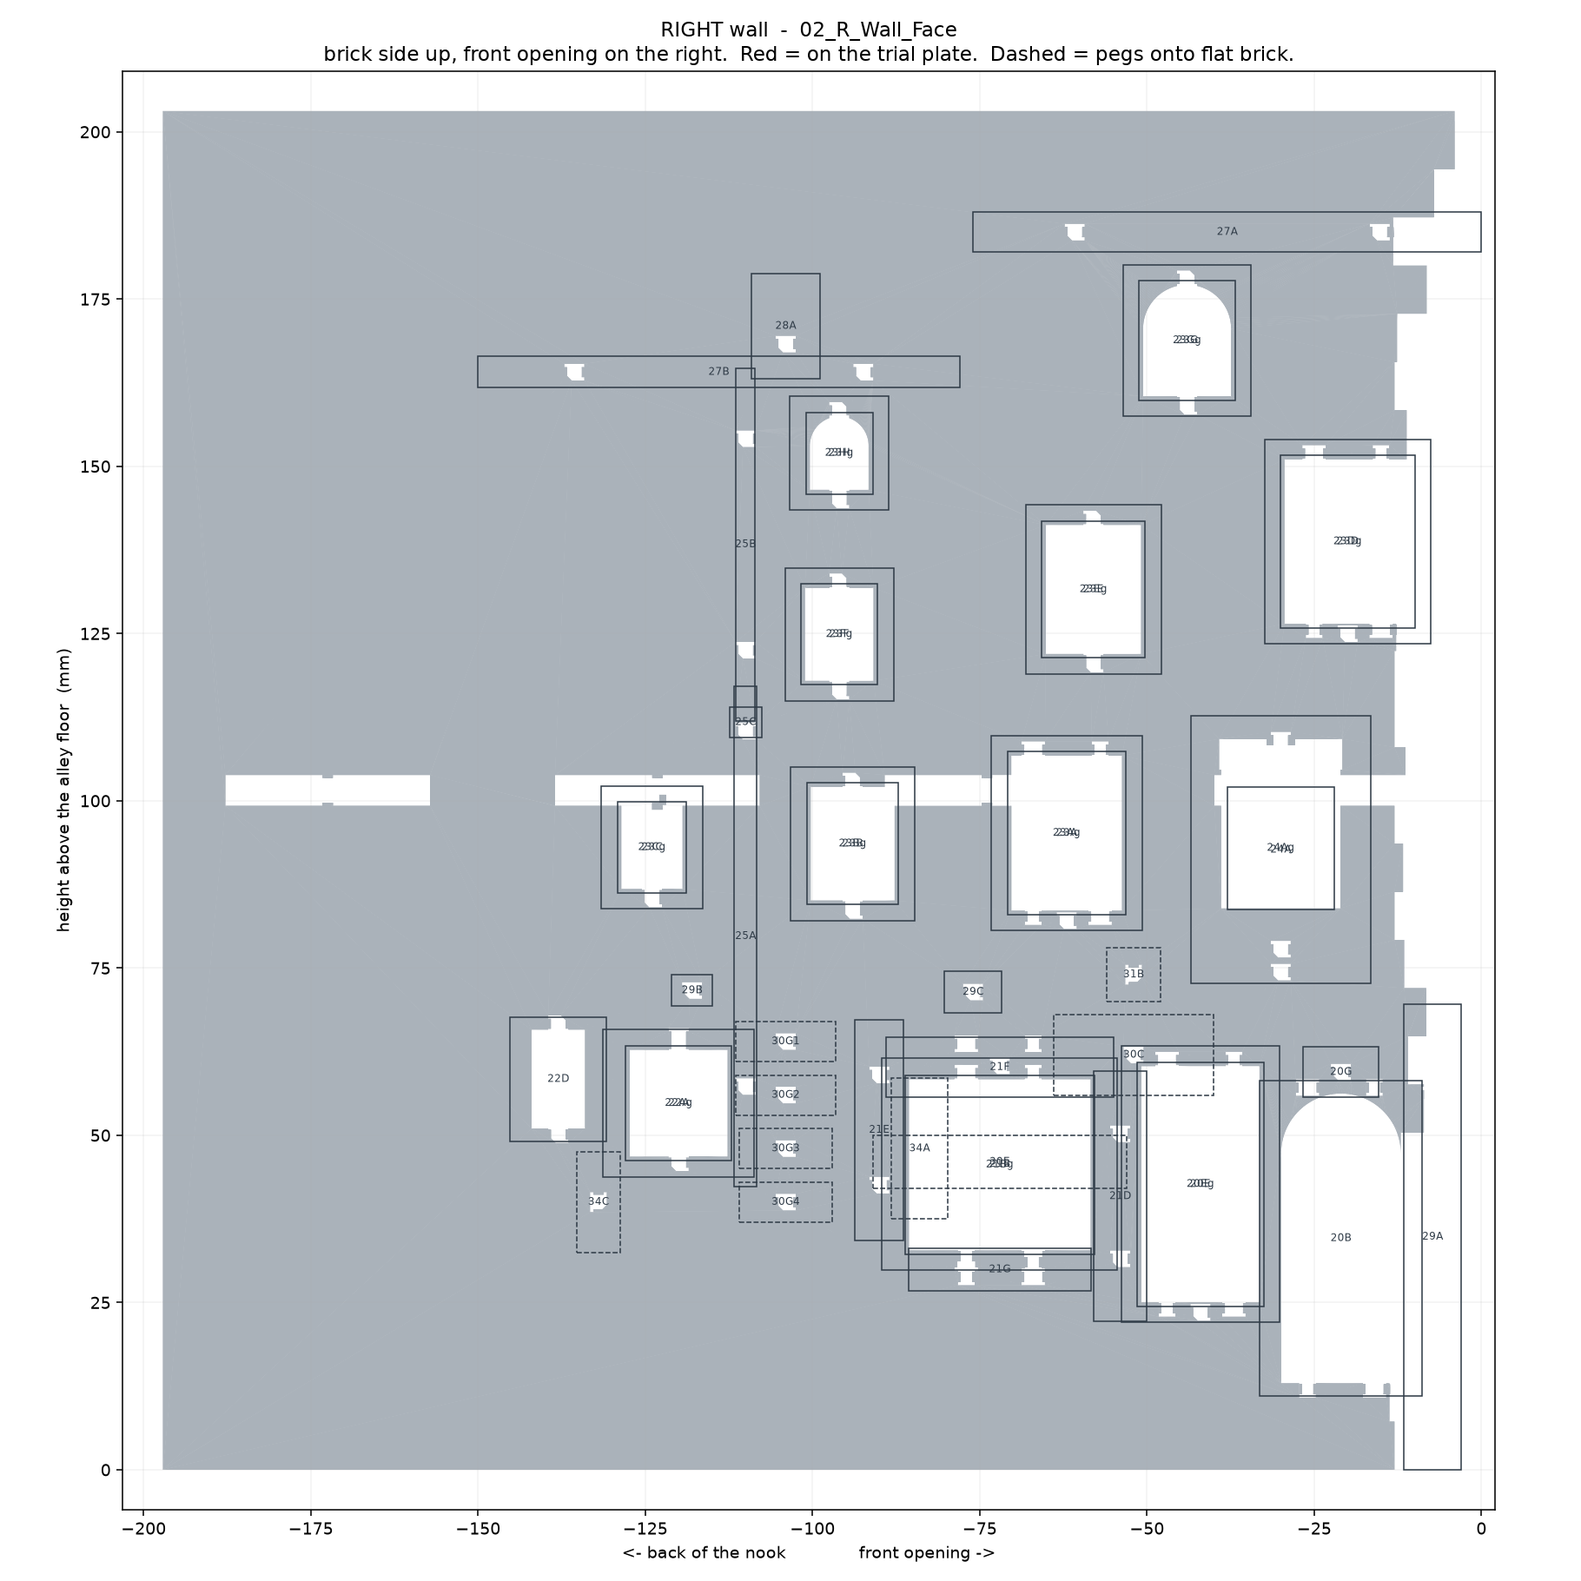
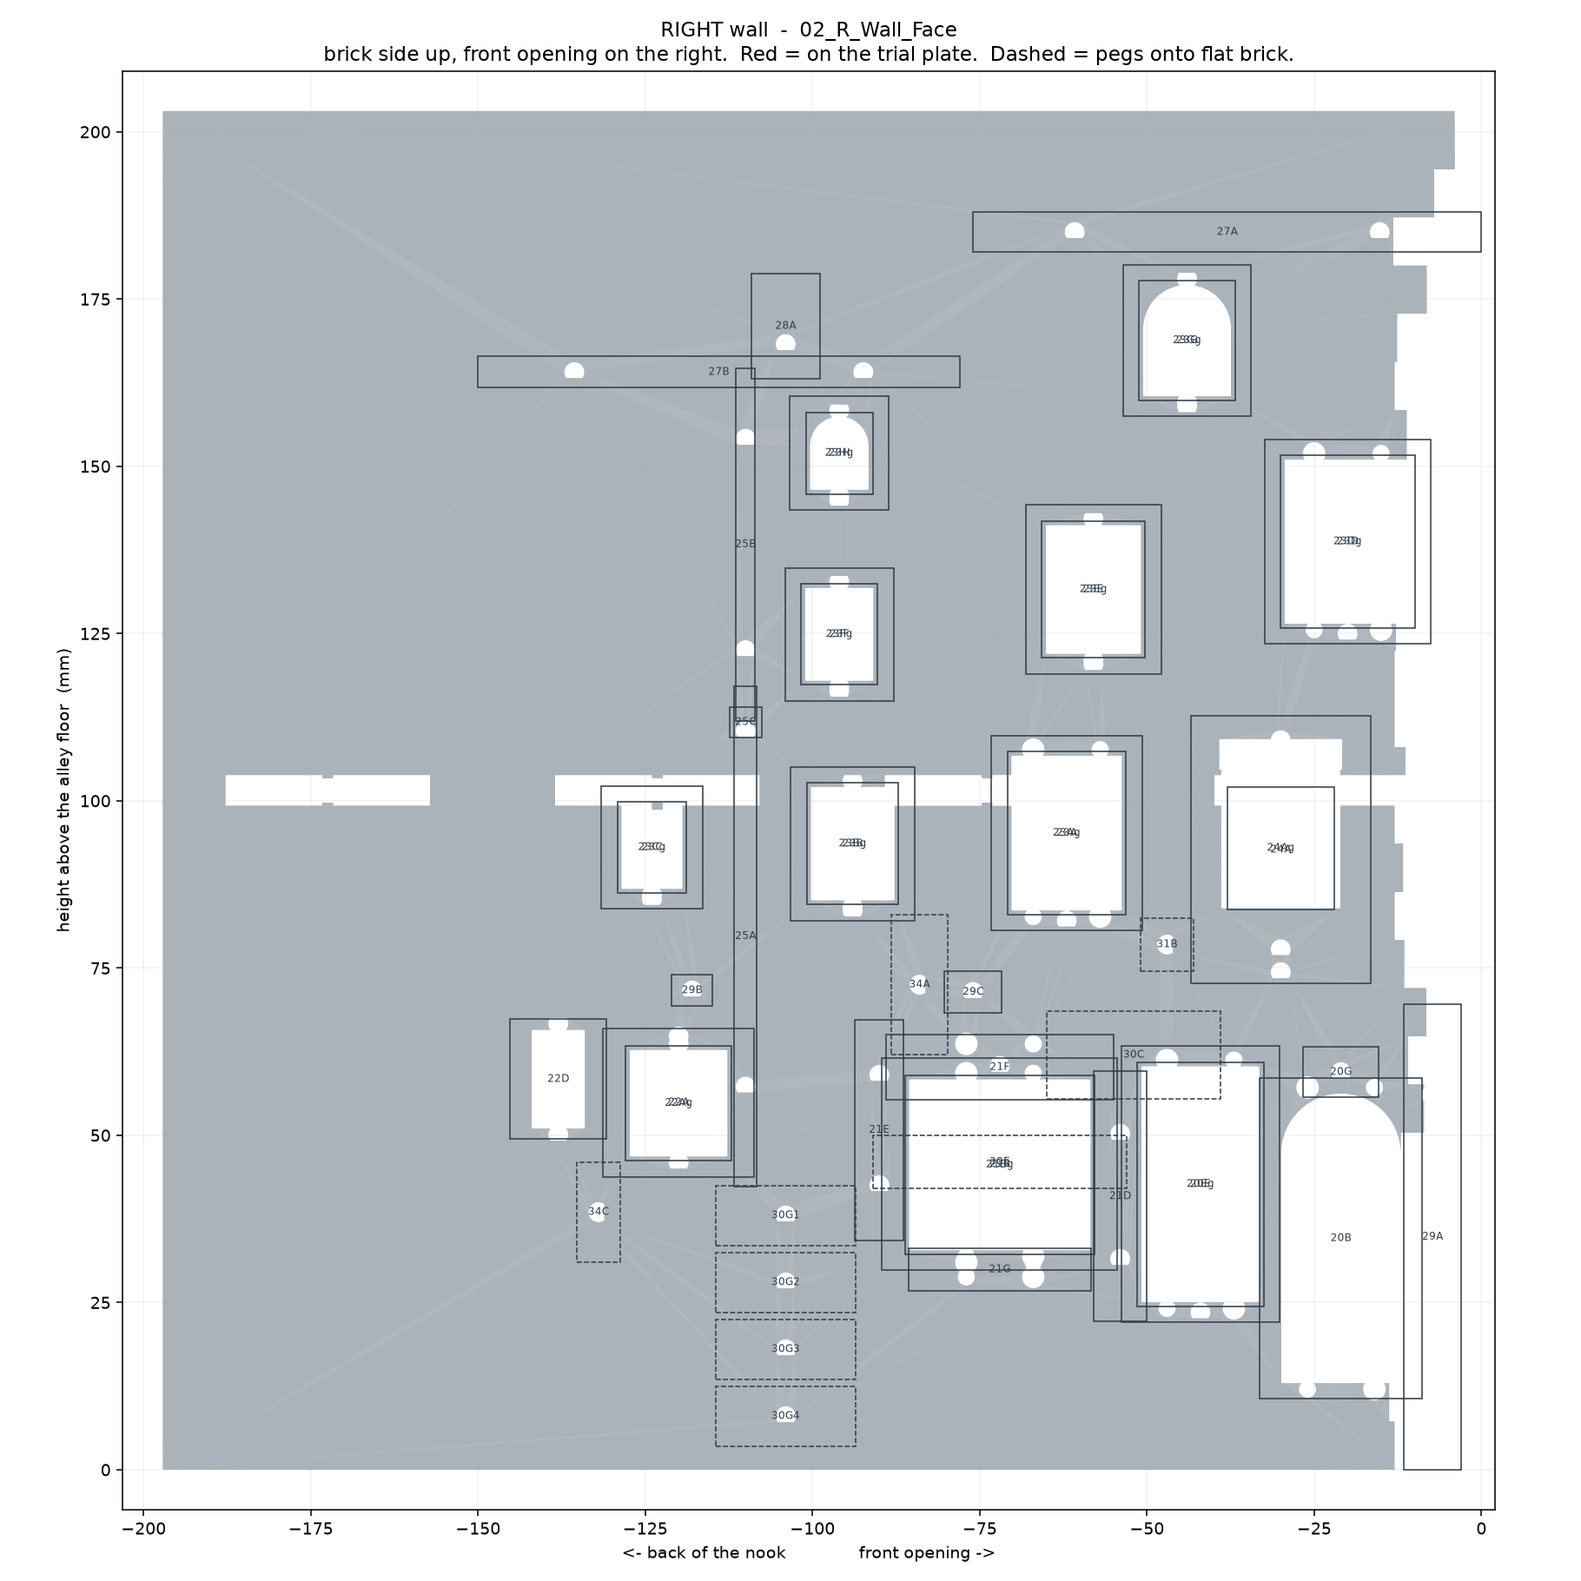
Second pass: hung bodies, not just their sockets
Clearing the sockets was half the job. check_hung_clearance() compares the
BODIES, and it failed on 13 parts on the left wall and 6 on the right -- most
of them where they had always been, not where the first pass moved them. A
lozenge 15 mm wide sits across the drainpipe whatever its socket does.

render_bare_wall.py draws what was actually being guessed at: the wall with
every element's footprint grown by the millimetre a socket needs, so the free
patches are visible. There are fewer than the element table suggests, and the
lower two storeys have almost none -- which is why the answers below move
upward or to the piers.

  31A  (30,76) -> (18,72), reach 15->13, drop 17->9. At its old size the
       bracket's body was 17.4 mm tall and the nearest free patch was 29 mm
       away on the second storey; at 9 it fits the band between the L1
       cornice and the 13A window, over the shopfront where it belongs. 30B
       follows it to u=18.
  31B  (52,74) -> (47,78.5)
  31D  (138,60) -> (138,77)
  30D  (88,66) -> (98,27), and no longer claims a bracket: it is a badge
       fixed flat beside the L2 door, the only bare patch on that shopfront.
       31C keeps its spot and now carries nothing, which is what an old scroll
       bracket with its sign gone looks like.
  30F  (120,58) -> (130,75)
  30G1-4 the lozenge column stays a column: same u, pitch 12 -> 10, dropped
       to z 38/28/18/8 clear of the drainpipe and the R3 shopfront.
[…]

diff --git a/diagon-alley-book-nook/data/facade.py b/diagon-alley-book-nook/data/facade.py
@@ -181,26 +181,30 @@ SIGNS = [
     # shop's trade instead, which is what a real alley sign does anyway.
     dict(id="30A", kind="banner",  side="R", u=66,  z=96, w=14, h=64, lit=1,
          text="DIAGON", name="Sign_Vertical_Banner"),
-    dict(id="30B", kind="swing",   side="L", u=30,  z=64, w=34, h=15,
+    dict(id="30B", kind="swing",   side="L", u=18,  z=62, w=34, h=15,
          text="OLLIVANDERS", name="Sign_Swing_Ollivanders", bracket="31A"),
     dict(id="30C", kind="swing",   side="R", u=52,  z=62, w=26, h=13,
          text="EEYLOPS", name="Sign_Swing_Eeylops", bracket="31B"),
-    dict(id="30D", kind="shield",  side="L", u=90,  z=77, w=23, h=21,
-         text="POTIONS", name="Sign_Shield_Apothecary", bracket="31C"),
+    # beside the L2 door at eye height: the only patch of the Apothecary's wall not
+    # already carrying the bay, the awning, the fascia or the oriel above it. It is a
+    # badge fixed flat to the wall, so it has no bracket -- 31C carries nothing now,
+    # which is what an old scroll bracket with its sign long gone looks like.
+    dict(id="30D", kind="shield",  side="L", u=98,  z=27, w=23, h=21,
+         text="POTIONS", name="Sign_Shield_Apothecary"),
     # fasciaplate: pinned to the fascia BOARD it sits on (21F), so its u and z match
     # that row's and its width stays inside the board's.
     dict(id="30E", kind="fasciaplate", side="R", u=72, z=46, w=38, h=8,
          text="QUIDDITCH", name="Sign_Fascia_Quidditch"),
-    dict(id="30F", kind="arrow",   side="L", u=120, z=72, w=46, h=11,
+    dict(id="30F", kind="arrow",   side="L", u=130, z=75, w=46, h=11,
          text="GRINGOTTS", name="Sign_Directional"),
     # the lozenge column is a shop directory: four more of the alley's trades
-    dict(id="30G1", kind="lozenge", side="R", u=104, z=64, w=21, h=9,
+    dict(id="30G1", kind="lozenge", side="R", u=104, z=38, w=21, h=9,
          text="PETS", name="Sign_Lozenge_Menagerie"),
-    dict(id="30G2", kind="lozenge", side="R", u=104, z=52, w=21, h=9,
+    dict(id="30G2", kind="lozenge", side="R", u=104, z=28, w=21, h=9,
          text="JOKE", name="Sign_Lozenge_Wheezes"),
-    dict(id="30G3", kind="lozenge", side="R", u=104, z=40, w=21, h=9,
+    dict(id="30G3", kind="lozenge", side="R", u=104, z=18, w=21, h=9,
          text="ICES", name="Sign_Lozenge_Fortescue"),
-    dict(id="30G4", kind="lozenge", side="R", u=104, z=28, w=21, h=9,
+    dict(id="30G4", kind="lozenge", side="R", u=104, z=8,  w=21, h=9,
          text="ROBES", name="Sign_Lozenge_Malkin"),
     dict(id="30H", kind="swing",   side="L", u=138, z=52, w=20, h=10,
          text="INK", name="Sign_Swing_Scribbulus", bracket="31D"),
@@ -224,20 +228,24 @@ SIGNS = [
 BRACKETS = [
     # 30B's bracket. 2.5 mm along the wall, because at u=30 the socket was 1.5 mm
     # inside the 13A window frame above it -- the hole that showed up on the coupon tile.
-    dict(id="31A", side="L", u=33,  z=76, reach=15, drop=17, name="Bracket_Scroll_A"),
-    dict(id="31B", side="R", u=52,  z=74, reach=14, drop=16, name="Bracket_Scroll_B"),
+    # reach and drop cut from 15/17: at 17 the bracket's body was 17.4 mm tall and
+    # there is no 17 mm band of bare wall anywhere near L1 -- the nearest free spot was
+    # 29 mm away on the second storey. At 9 it fits between the shopfront cornice and
+    # the 13A window, which is where a hanging sign belongs.
+    dict(id="31A", side="L", u=18,  z=72, reach=13, drop=9, name="Bracket_Scroll_A"),
+    dict(id="31B", side="R", u=47,  z=78.5, reach=14, drop=16, name="Bracket_Scroll_B"),
     # 30D's bracket, lifted with it to clear the L2 awning and the oriel above
     dict(id="31C", side="L", u=90,  z=87, reach=12, drop=14, name="Bracket_Scroll_C"),
-    dict(id="31D", side="L", u=138, z=73, reach=8,  drop=10, name="Bracket_Scroll_D"),
+    dict(id="31D", side="L", u=138, z=77, reach=8,  drop=10, name="Bracket_Scroll_D"),
 ]
 
 LANTERNS = [
     # Both of the big lanterns hung on shopfront: 33A's socket was under the bow window
     # AND the door, 34A's under the R2 shop window. They hang above the fascia now,
     # which is where a street lantern goes anyway.
-    dict(id="33A", side="L", u=40,  z=76, h=26, w=10, lit=1, name="Lantern_Large"),
-    dict(id="34A", side="R", u=84,  z=71, h=21, w=8.5, lit=1, name="Lantern_Small"),
-    dict(id="34C", side="R", u=132, z=40, h=15, w=6.5, lit=1, name="Lantern_Rear_Tiny"),
+    dict(id="33A", side="L", u=43,  z=72, h=26, w=10, lit=1, name="Lantern_Large"),
+    dict(id="34A", side="R", u=84,  z=72.5, h=21, w=8.5, lit=1, name="Lantern_Small"),
+    dict(id="34C", side="R", u=132, z=38.5, h=15, w=6.5, lit=1, name="Lantern_Rear_Tiny"),
 ]
 
 # `foot` is the footprint (w, d) of a free-standing prop, used to cut its locating
@@ -258,9 +266,9 @@ PROPS = [
     # down 6 mm: the board's socket was under the L2 bay. The poster layer glues
     # ONTO the board and has no wall socket of its own -- it used to share the
     # board's, which is two pegs in one hole.
-    dict(id="38A", kind="notice", side="L", u=68,  z=24, name="Notice_Board"),
-    dict(id="38B", kind="posters", side="L", u=68, z=24, name="Poster_Layer"),
+    dict(id="38A", kind="notice", side="L", u=69,  z=16, name="Notice_Board"),
+    dict(id="38B", kind="posters", side="L", u=69, z=16, name="Poster_Layer"),
     dict(id="39A", kind="kerb", side="L", u=80,  name="Kerb_Step", foot=(18.0, 6.0)),
     dict(id="39B", kind="hatch", side="R", u=48,  name="Cellar_Hatch", foot=(14.0, 11.0)),
-    dict(id="39C", kind="scraper", side="L", u=46, z=2, name="Boot_Scraper"),
+    dict(id="39C", kind="scraper", side="L", u=46, z=4, name="Boot_Scraper"),
 ]

diff --git a/diagon-alley-book-nook/render_bare_wall.py b/diagon-alley-book-nook/render_bare_wall.py
@@ -1,0 +1,78 @@
+#!/usr/bin/env python3
+"""Where is there any bare wall left to hang something on?
+
+    python3 render_bare_wall.py   ->  docs/img/bare_wall_L.png, _R.png
+
+Every sign, bracket, lantern and wall-hung prop needs a patch of wall that no shopfront,
+window, pipe or cornice already covers -- for its socket AND for its own body. Guessing
+at that from the element table is how eleven of the left wall's twelve hung mounts ended
+up underneath the part next door.
+
+White is free. Grey is taken, by the part named on it. The crosses are where the hung
+parts sit now; a cross on grey is a mount with nothing to mount to.
+"""
+import os
+
+import numpy as np
+import matplotlib
+matplotlib.use("Agg")
+import matplotlib.pyplot as plt
+from matplotlib.patches import Rectangle
+
+from parts import walls as W
+from parts import kit as K
+from parts.decor import to_wall
+
+HERE = os.path.dirname(os.path.abspath(__file__))
+OUT = os.path.join(HERE, "docs", "img")
+MARGIN = 1.0
+
+
+def main():
+    os.makedirs(OUT, exist_ok=True)
+    for side in ("L", "R"):
+        facade = [(p["id"], p["placed"].val().BoundingBox())
+                  for p in W.collect(side)[0]]
+        hung = []
+        want = {r["id"] for _k, r, _ in K.wall_mount_rows(side)}
+        for it in K.signs() + K.brackets() + K.lanterns() + K.props():
+            if it.get("side") != side or it["id"] not in want:
+                continue
+            u, z = it["u"], it.get("z", 0) or 0
+            b = to_wall(it["solid"], u, z).val().BoundingBox()
+            hung.append((it["id"], u, z, b))
+
+        fig, ax = plt.subplots(figsize=(15, 9), facecolor="white")
+        ax.add_patch(Rectangle((0, 0), W.WALL_LEN, W.WALL_H, facecolor="white",
+                               edgecolor="#333", lw=1.2, zorder=0))
+        for pid, bb in sorted(facade, key=lambda t: -(t[1].ylen * t[1].zlen)):
+            ax.add_patch(Rectangle((bb.ymin - MARGIN, bb.zmin - MARGIN),
+                                   bb.ylen + 2 * MARGIN, bb.zlen + 2 * MARGIN,
+                                   facecolor="#b9c0c6", edgecolor="#8a949c",
+                                   lw=0.5, alpha=0.85, zorder=1))
+            if bb.ylen * bb.zlen > 250:
+                ax.text((bb.ymin + bb.ymax) / 2, (bb.zmin + bb.zmax) / 2, pid,
+                        ha="center", va="center", fontsize=7, color="#3d4750", zorder=2)
+        for hid, u, z, b in hung:
+            ax.add_patch(Rectangle((b.ymin, b.zmin), b.ylen, b.zlen, fill=False,
+                                   edgecolor="#b23b3b", lw=1.4, zorder=3))
+            ax.plot([u], [z], marker="+", ms=11, mew=2.0, color="#b23b3b", zorder=4)
+            ax.text(u, b.zmax + 1.5, hid, ha="center", va="bottom", fontsize=8,
+                    color="#b23b3b", fontweight="bold", zorder=4)
+
+        ax.set_xlim(-6, W.WALL_LEN + 6)
+        ax.set_ylim(-6, W.WALL_H + 10)
+        ax.set_aspect("equal")
+        ax.set_axis_off()
+        ax.set_title(f"{side} wall — white is bare wall (grey already carries a part, "
+                     f"grown by the {MARGIN} mm a socket needs). "
+                     "Red is what hangs on it.", fontsize=11, color="#1d2429")
+        fig.tight_layout()
+        out = os.path.join(OUT, f"bare_wall_{side}.png")
+        fig.savefig(out, dpi=140, bbox_inches="tight", facecolor="white")
+        plt.close(fig)
+        print("  ->", out)
+
+
+if __name__ == "__main__":
+    main()

diff --git a/diagon-alley-book-nook/docs/06_WHERE_IT_GOES.md b/diagon-alley-book-nook/docs/06_WHERE_IT_GOES.md
@@ -34,42 +34,42 @@ numbers the drawings are laid out on.
 | `13Cg` | L_L_Window_C_Glazing | 101.1 – 114.9 | 85.8 – 103.8 | 0.8 mm |
 | `13D` | L_L_Window_D_Frame | 126.3 – 141.7 | 84.8 – 103.4 | 2.8 mm |
 | `13C` | L_L_Window_C_Frame | 98.7 – 117.3 | 83.4 – 106.2 | 2.8 mm |
+| `31C` | Bracket_Scroll_C | 86.0 – 94.0 | 83.0 – 91.0 | pegs into a socket here |
 | `13Bg` | L_L_Window_B_Glazing | 36.7 – 55.3 | 81.5 – 107.1 | 0.8 mm |
 | `13B` | L_L_Window_B_Frame | 34.3 – 57.7 | 79.1 – 109.5 | 2.8 mm |
 | `13Ag` | L_L_Window_A_Glazing | 4.9 – 27.1 | 78.8 – 108.7 | 0.8 mm |
 | `12B` | L_L_Oriel_Body | 65.0 – 87.0 | 78.6 – 109.6 | 7.9 mm |
 | `13A` | L_L_Window_A_Frame | 2.5 – 29.5 | 76.4 – 111.1 | 2.8 mm |
-| `31C` | Bracket_Scroll_C | 84.0 – 92.0 | 74.0 – 82.0 | pegs into a socket here |
-| `31A` | Bracket_Scroll_A | 26.0 – 34.0 | 72.0 – 80.0 | pegs into a socket here |
+| `31D` | Bracket_Scroll_D | 134.0 – 142.0 | 73.0 – 81.0 | pegs into a socket here |
 | `19B` | L_L_Keystone | 106.5 – 113.5 | 69.9 – 75.5 | 2.2 mm |
-| `11J` | L_L2_Awning | 62.1 – 85.9 | 68.2 – 77.1 | 6.3 mm |
-| `11K` | L_L2_Fascia | 72.1 – 99.9 | 64.3 – 72.9 | 3.8 mm |
+| `30F` | Sign_Directional | 107.0 – 153.0 | 69.5 – 80.5 | pegs into a socket here |
+| `11J` | L_L2_Awning | 62.1 – 85.9 | 68.2 – 77.3 | 6.3 mm |
+| `31A` | Bracket_Scroll_A | 14.0 – 22.0 | 68.0 – 76.0 | pegs into a socket here |
 | `19C` | L_L_Wall_Plaque | 24.5 – 35.5 | 64.0 – 72.2 | 2.9 mm |
+| `11K` | L_L2_Fascia | 70.6 – 101.4 | 63.9 – 73.3 | 3.8 mm |
+| `33A` | Lantern_Large | 38.0 – 48.0 | 59.0 – 85.0 | pegs into a socket here |
 | `10D` | L_L1_Cornice | -2.9 – 42.9 | 57.8 – 60.8 | 2.0 mm |
-| `30B` | Sign_Swing_A | 17.0 – 43.0 | 57.5 – 70.5 | pegs into a socket here |
-| `30D` | Sign_Shield_A | 79.5 – 96.5 | 56.5 – 75.5 | pegs into a socket here |
-| `31D` | Bracket_Scroll_D | 134.0 – 142.0 | 56.0 – 64.0 | pegs into a socket here |
-| `30F` | Sign_Directional | 109.0 – 131.0 | 54.5 – 61.5 | pegs into a socket here |
-| `30J` | Sign_Fascia_L2 | 70.0 – 102.0 | 50.5 – 57.5 | pegs into a socket here |
-| `12G` | L_L3_Door | 134.6 – 149.4 | 50.4 – 69.9 | 2.2 mm |
-| `30H` | Sign_Small_Rear_A | 130.0 – 146.0 | 48.0 – 56.0 | pegs into a socket here |
+| `30B` | Sign_Swing_Ollivanders | 1.0 – 35.0 | 54.5 – 69.5 | pegs into a socket here |
+| `12G` | L_L3_Door | 134.6 – 149.4 | 50.7 – 69.6 | 2.2 mm |
+| `30J` | Sign_Fascia_Apothecary | 69.0 – 103.0 | 50.0 – 58.0 | pegs into a socket here |
 | `12Ag` | L_L3_Shop_Window_Glazing | 115.5 – 132.5 | 47.5 – 65.7 | 0.8 mm |
-| `12A` | L_L3_Shop_Window_Frame | 112.1 – 135.9 | 45.1 – 68.1 | 2.8 mm |
+| `30H` | Sign_Swing_Scribbulus | 128.0 – 148.0 | 47.0 – 57.0 | pegs into a socket here |
+| `12A` | L_L3_Shop_Window_Frame | 112.1 – 135.9 | 45.1 – 68.3 | 2.8 mm |
 | `12D` | L_L3_Stallriser | 116.1 – 131.9 | 44.6 – 49.2 | 2.0 mm |
-| `33A` | Lantern_Large | 29.0 – 39.0 | 39.0 – 65.0 | pegs into a socket here |
 | `11Ag` | L_L2_Bay_Window_Glazing | 66.0 – 82.0 | 38.4 – 57.0 | 0.8 mm |
-| `11F` | L_L2_Door | 88.3 – 107.7 | 36.4 – 69.9 | 2.2 mm |
+| `11F` | L_L2_Door | 88.3 – 107.7 | 36.7 – 69.9 | 2.2 mm |
 | `11A` | L_L2_Bay_Window_Body | 60.6 – 87.4 | 27.1 – 67.8 | 10.3 mm |
-| `38A` | Notice_Board | 64.0 – 72.0 | 26.0 – 34.0 | pegs into a socket here |
-| `38B` | Poster_Layer | 64.0 – 72.0 | 26.0 – 34.0 | pegs into a socket here |
 | `15A` | L_L_Drainpipe_Lower | 57.9 – 62.1 | 25.8 – 117.4 | 1.8 mm |
 | `10Bg` | L_L1_Bow_Window_Glazing | 6.2 – 33.8 | 20.8 – 44.6 | 0.8 mm |
 | `10Bd` | L_L1_Bow_Window_Diffuser | 5.4 – 34.6 | 19.9 – 45.5 | 0.8 mm |
-| `10G` | L_L1_Door | 31.1 – 56.9 | 18.6 – 65.4 | 2.2 mm |
+| `10G` | L_L1_Door | 31.1 – 56.9 | 18.2 – 65.4 | 2.2 mm |
+| `30D` | Sign_Shield_Apothecary | 86.5 – 109.5 | 16.5 – 37.5 | pegs into a socket here |
 | `10B` | L_L1_Bow_Window | -2.9 – 42.9 | 14.5 – 61.5 | 13.5 mm |
+| `38A` | Notice_Board | 65.0 – 73.0 | 12.0 – 20.0 | pegs into a socket here |
+| `38B` | Poster_Layer | 65.0 – 73.0 | 12.0 – 20.0 | pegs into a socket here |
 | `10E` | L_L1_Stallriser | 1.1 – 38.9 | 8.9 – 18.3 | 2.0 mm |
+| `39C` | Boot_Scraper | 42.0 – 50.0 | 0.0 – 8.0 | pegs into a socket here |
 | `19A` | L_L_Quoin_Front | 3.0 – 11.6 | -0.0 – 69.6 | 2.6 mm |
-| `39C` | Boot_Scraper | 42.0 – 50.0 | -2.0 – 6.0 | pegs into a socket here |
 
 ## Right wall -- `02_R_Wall_Face`
 
@@ -99,31 +99,31 @@ numbers the drawings are laid out on.
 | `23Ag` | R_R_Window_A_Glazing | 53.1 – 70.9 | 83.0 – 107.3 | 0.8 mm |
 | `23B` | R_R_Window_B_Frame | 84.7 – 103.3 | 82.1 – 105.1 | 2.8 mm |
 | `23A` | R_R_Window_A_Frame | 50.7 – 73.3 | 80.6 – 109.7 | 2.8 mm |
+| `31B` | Bracket_Scroll_B | 43.0 – 51.0 | 74.5 – 82.5 | pegs into a socket here |
 | `24A` | R_R_Bay_Window_Body | 16.6 – 43.4 | 72.7 – 112.7 | 11.0 mm |
-| `31B` | Bracket_Scroll_B | 48.0 – 56.0 | 70.0 – 78.0 | pegs into a socket here |
 | `29B` | R_R_Keystone | 115.0 – 121.0 | 69.3 – 74.0 | 2.1 mm |
 | `29C` | R_R_Guild_Badge | 71.7 – 80.3 | 68.2 – 74.6 | 2.5 mm |
-| `30G1` | Sign_Lozenge_1 | 96.5 – 111.5 | 61.0 – 67.0 | pegs into a socket here |
-| `30C` | Sign_Swing_B | 40.0 – 64.0 | 56.0 – 68.0 | pegs into a socket here |
+| `34A` | Lantern_Small | 79.8 – 88.2 | 62.0 – 83.0 | pegs into a socket here |
 | `20G` | R_R1_Door_Keystone | 15.4 – 26.6 | 55.7 – 63.2 | 3.0 mm |
-| `21F` | R_R2_Fascia | 55.0 – 89.0 | 55.7 – 64.7 | 3.8 mm |
-| `30G2` | Sign_Lozenge_2 | 96.5 – 111.5 | 53.0 – 59.0 | pegs into a socket here |
-| `22D` | R_R3_Door | 130.8 – 145.2 | 49.1 – 67.7 | 2.2 mm |
+| `30C` | Sign_Swing_Eeylops | 39.0 – 65.0 | 55.5 – 68.5 | pegs into a socket here |
+| `21F` | R_R2_Fascia | 55.0 – 89.0 | 55.3 – 65.1 | 3.8 mm |
+| `22D` | R_R3_Door | 130.8 – 145.2 | 49.4 – 67.4 | 2.2 mm |
 | `22Ag` | R_R3_Shop_Window_Glazing | 112.1 – 127.9 | 46.2 – 63.4 | 0.8 mm |
-| `30G3` | Sign_Lozenge_3 | 97.0 – 111.0 | 45.0 – 51.0 | pegs into a socket here |
-| `22A` | R_R3_Shop_Window_Frame | 108.7 – 131.3 | 43.8 – 65.8 | 2.8 mm |
+| `22A` | R_R3_Shop_Window_Frame | 108.7 – 131.3 | 43.8 – 66.0 | 2.8 mm |
 | `25A` | R_R_Drainpipe_Lower | 108.3 – 111.7 | 42.3 – 117.2 | 1.4 mm |
-| `30E` | Sign_Fascia_Long | 53.0 – 91.0 | 42.0 – 50.0 | pegs into a socket here |
-| `34A` | Lantern_Small | 79.8 – 88.2 | 37.5 – 58.5 | pegs into a socket here |
-| `30G4` | Sign_Lozenge_4 | 97.0 – 111.0 | 37.0 – 43.0 | pegs into a socket here |
+| `30E` | Sign_Fascia_Quidditch | 53.0 – 91.0 | 42.0 – 50.0 | pegs into a socket here |
 | `21E` | R_R2_Pilaster_Right | 86.4 – 93.6 | 34.3 – 67.3 | 4.1 mm |
-| `34C` | Lantern_Rear_Tiny | 128.8 – 135.2 | 32.5 – 47.5 | pegs into a socket here |
+| `30G1` | Sign_Lozenge_Menagerie | 93.5 – 114.5 | 33.5 – 42.5 | pegs into a socket here |
 | `21Bg` | R_R2_Shop_Window_Glazing | 57.8 – 86.2 | 32.2 – 59.0 | 0.8 mm |
+| `34C` | Lantern_Rear_Tiny | 128.8 – 135.2 | 31.0 – 46.0 | pegs into a socket here |
 | `21B` | R_R2_Shop_Window_Frame | 54.4 – 89.6 | 29.8 – 61.6 | 2.8 mm |
 | `21G` | R_R2_Stallriser | 58.4 – 85.6 | 26.7 – 33.1 | 2.0 mm |
 | `20Eg` | R_R1_Tall_Window_Glazing | 32.6 – 51.4 | 24.4 – 60.9 | 0.8 mm |
+| `30G2` | Sign_Lozenge_Wheezes | 93.5 – 114.5 | 23.5 – 32.5 | pegs into a socket here |
 | `21D` | R_R2_Pilaster_Left | 50.1 – 57.9 | 22.2 – 59.6 | 4.5 mm |
 | `20E` | R_R1_Tall_Window_Frame | 30.2 – 53.8 | 22.0 – 63.3 | 2.8 mm |
-| `20B` | R_R1_Arched_Door | 8.9 – 33.1 | 11.0 – 58.1 | 2.2 mm |
+| `30G3` | Sign_Lozenge_Fortescue | 93.5 – 114.5 | 13.5 – 22.5 | pegs into a socket here |
+| `20B` | R_R1_Arched_Door | 8.9 – 33.1 | 10.6 – 58.5 | 2.2 mm |
+| `30G4` | Sign_Lozenge_Malkin | 93.5 – 114.5 | 3.5 – 12.5 | pegs into a socket here |
 | `29A` | R_R_Quoin_Front | 3.0 – 11.6 | -0.0 – 69.6 | 2.6 mm |
 
